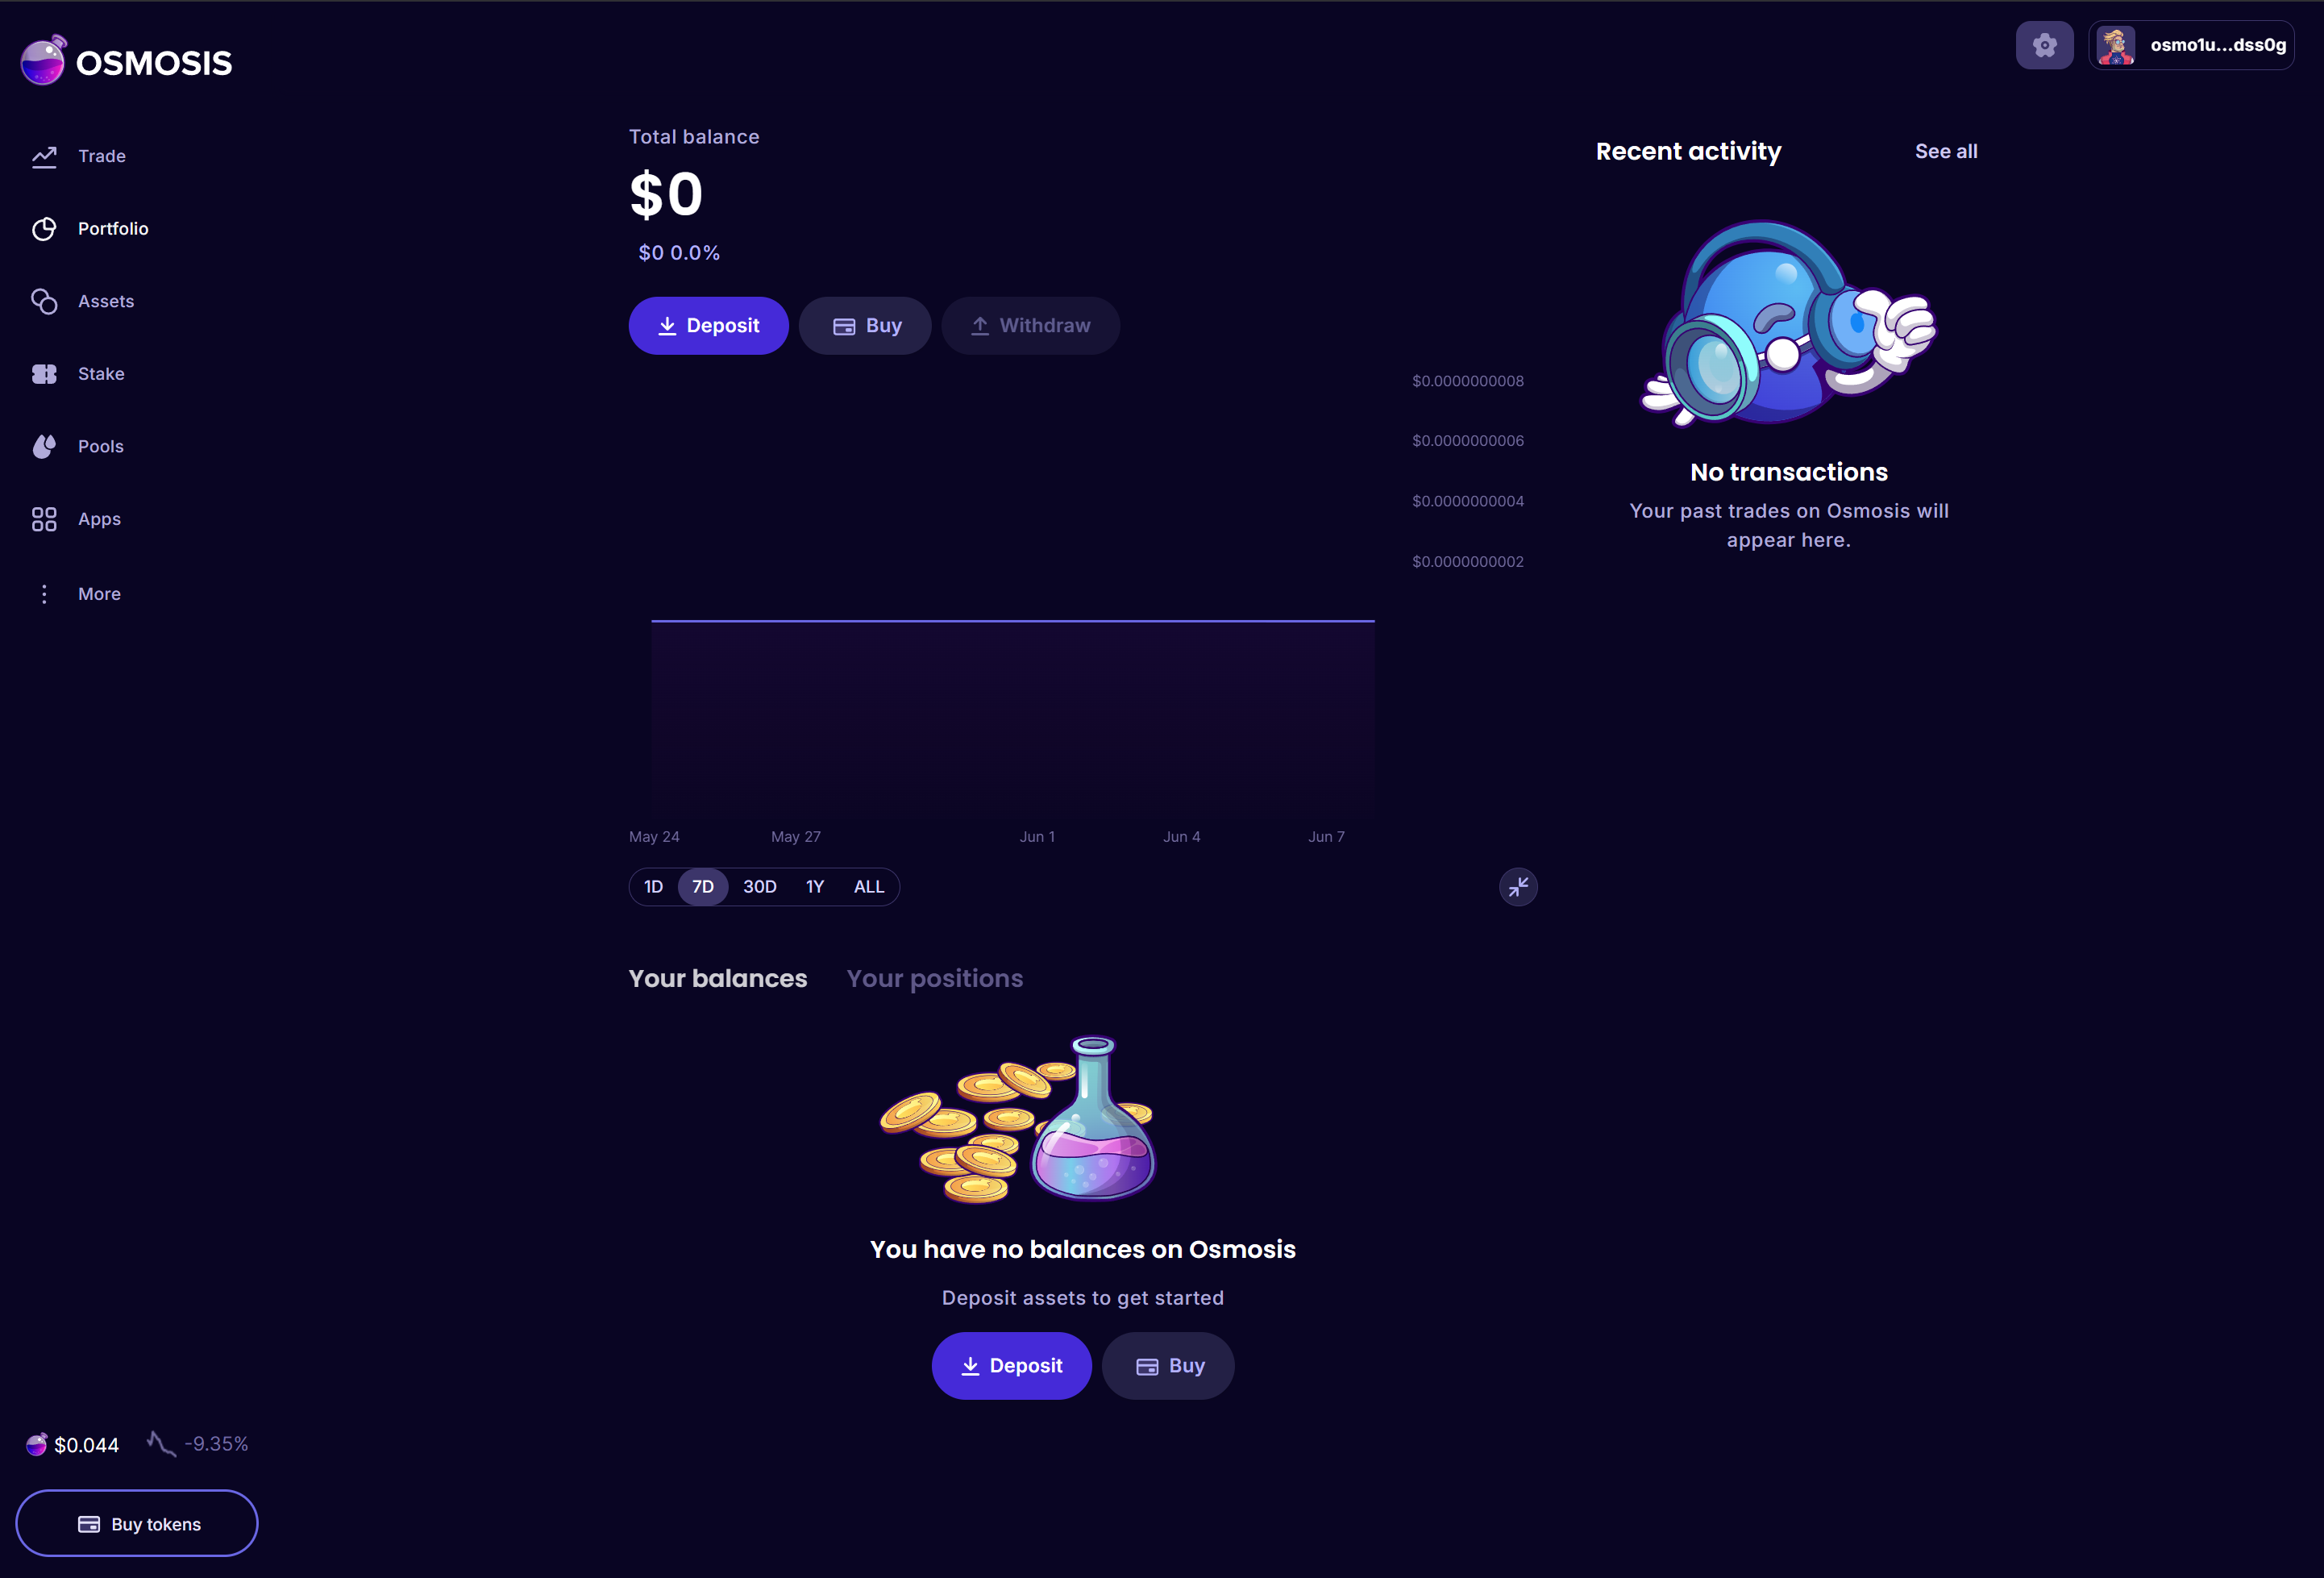
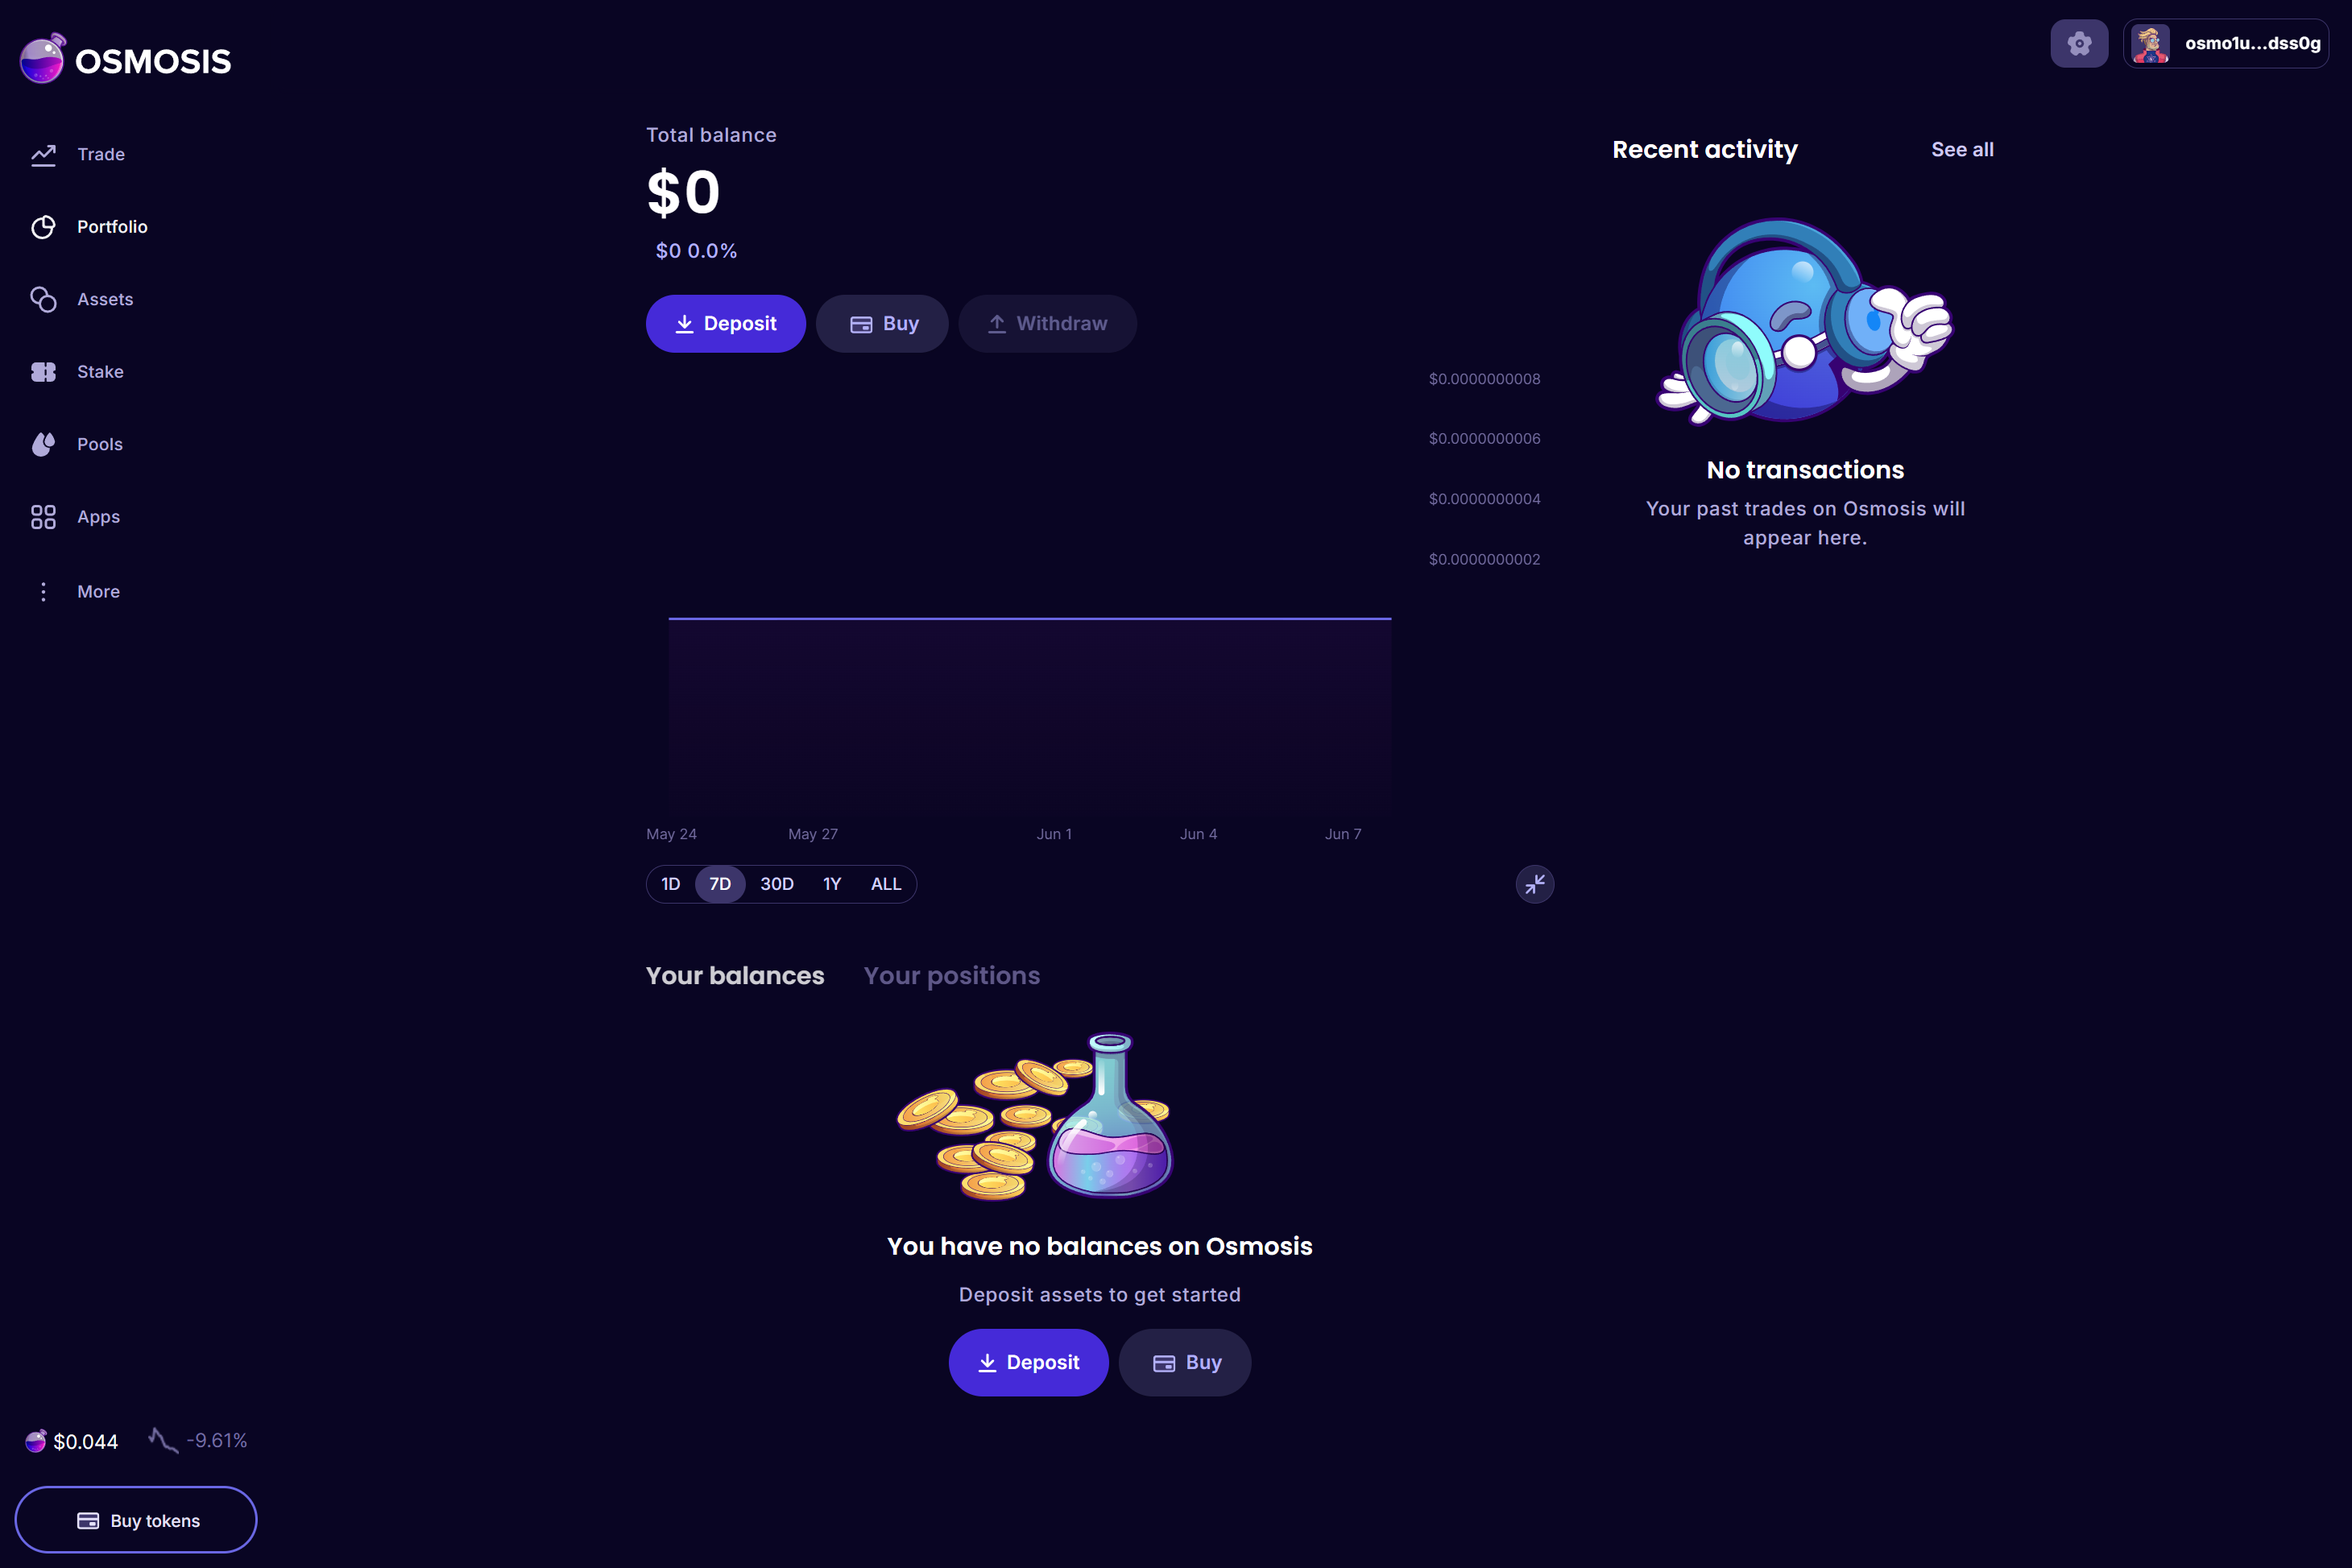
docs(learn): rewrite the deposit flow with current-UI screenshots

diff --git a/docs/learn/get-started.md b/docs/learn/get-started.md
@@ -28,17 +28,33 @@ Connect your wallet and click Approve. This confirms you are connecting to app.o
 
 ## Deposit Funds
 
-Most assets reach Osmosis over IBC from their home chain. To bring funds in:
+Most assets reach Osmosis over IBC from their home chain. To bring funds in, go to the Portfolio page and click Deposit next to the asset you want to bring in. For this example we deposit ATOM.
 
-1. Go to the Portfolio page and click the deposit link next to the asset you want to bring in. For this example we deposit ATOM.
-2. Accept the connection to the asset's home chain (here, `cosmoshub-4`).
+![The Portfolio page with the deposit action](@site/docs/assets/started-portfolio-page.png)
 
-![Depositing an asset from the Portfolio page](@site/docs/assets/started-portfolio-page.png)
+Select the asset and the source chain it is coming from.
 
-3. Choose the amount to deposit and click Deposit, then approve the transaction in your wallet.
-4. Once the transfer completes, a series of confirmation notifications appears, including the IBC confirmation. Your balance is then available on Osmosis.
+![Selecting the asset to deposit](@site/docs/assets/started-deposit-page.png)
 
-![A completed deposit with IBC confirmation](@site/docs/assets/confirm-2.png)
+Enter the amount you want to transfer.
+
+![Entering the deposit amount](@site/docs/assets/started-deposit-page2.png)
+
+Review the transfer details and confirm.
+
+![Reviewing the deposit](@site/docs/assets/started-deposit-page3.png)
+
+Approve the transaction in your wallet.
+
+![Approving the transfer in Keplr](@site/docs/assets/confirm-deposit.png)
+
+A progress indicator appears in the top right while the IBC transfer completes.
+
+![Deposit progress indicator](@site/docs/assets/deposit-progress.png)
+
+Once the transfer finishes, your balance is available on Osmosis and ready to trade.
+
+![The completed deposit](@site/docs/assets/deposit-complete.png)
 
 ## Next steps
 